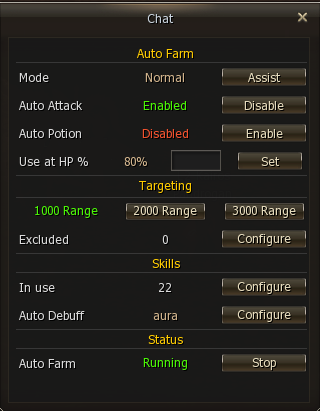
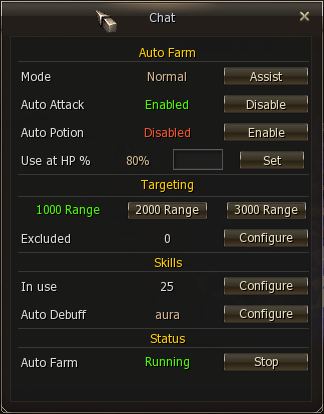
feat(lionna/auto-farm): replace figure with carousel for all farm panel images

diff --git a/src/pages/lionna/AutoFarm.jsx b/src/pages/lionna/AutoFarm.jsx
@@ -1,8 +1,8 @@
-import PageHero       from '../../components/ui/PageHero'
-import SectionHeading from '../../components/ui/SectionHeading'
-import WikiFigure     from '../../components/ui/WikiFigure'
-import WikiTable      from '../../components/ui/WikiTable'
-import InfoBox        from '../../components/ui/InfoBox'
+import PageHero        from '../../components/ui/PageHero'
+import SectionHeading  from '../../components/ui/SectionHeading'
+import WikiCarousel    from '../../components/ui/WikiCarousel'
+import WikiTable       from '../../components/ui/WikiTable'
+import InfoBox         from '../../components/ui/InfoBox'
 
 export default function LionnaAutoFarm() {
   return (
@@ -12,11 +12,14 @@ export default function LionnaAutoFarm() {
         tagline="Configure automated hunting on Lionna Multiskill."
       />
 
-      <WikiFigure
-        src="images/lionna/farm.png"
-        alt="Auto Farm panel"
-        caption="The Auto Farm panel — opened with .farm in chat."
-        size="lg"
+      <WikiCarousel
+        slides={[
+          { src: 'images/lionna/farm.png',        alt: 'Auto Farm panel',             caption: 'Auto Farm panel — opened with .farm in chat.' },
+          { src: 'images/lionna/farm-assist.png', alt: 'Auto Farm — Assist mode',     caption: 'Assist mode — follow and help a selected party member.' },
+          { src: 'images/lionna/farm-buffs.png',  alt: 'Auto Farm — Buffs',           caption: 'Buffs — select skills to auto-cast when their duration expires.' },
+          { src: 'images/lionna/farm-spoil.png',  alt: 'Auto Farm — Spoil',           caption: 'Spoil — select your Spoil skill for automatic spoiling.' },
+          { src: 'images/lionna/farm-sweep.png',  alt: 'Auto Farm — Sweep',           caption: 'Sweep — select your Sweep skill to auto-sweep spoiled mobs.' },
+        ]}
       />
 
       <SectionHeading id="overview">Overview</SectionHeading>
